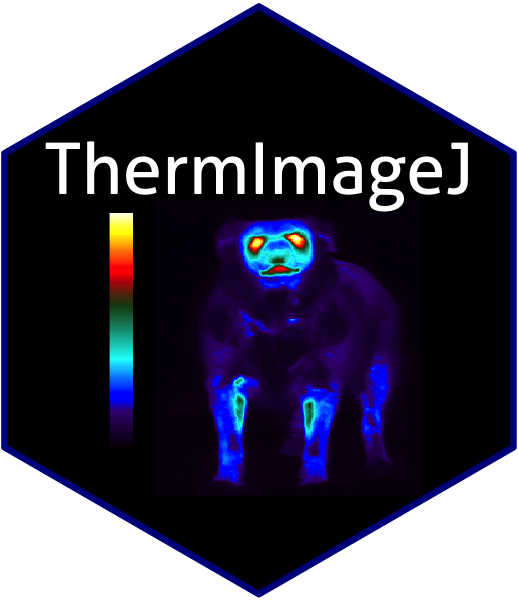
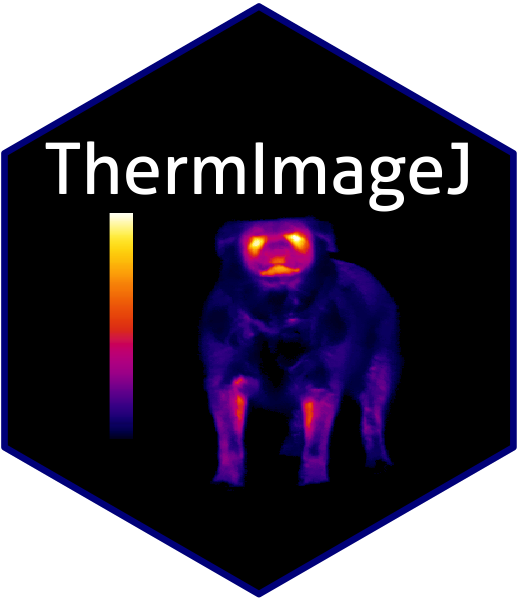
Update toolset to v1.4. includes fast raw2temp calc

Changed region(s): [[0.3707, 0.36, 0.7722, 0.81], [0.1853, 0.36, 0.278, 0.72]]

diff --git a/Readme.md b/Readme.md
@@ -1,7 +1,7 @@
 ThermImageJ - Thermal Image Functions and Macros for ImageJ
 ================
 
-<img src = './images/ThermImageJSticker1.png' align="right" height="138.5">
+<img src = './images/ThermImageJSticker1.png' align="right" height="165">
 
 ThermImageJ is a collection of ImageJ functions and macros to allow for import and conversion of thermal image files and to assist in extracting raw data from infrared thermal images and converting these to temperatures using standard equations in thermography.
 
@@ -216,7 +216,7 @@ Main Functions and Features
     -   see SampleFiles.zip for sample data
 -   Raw Import SEQ <img src='./images/ImportSEQ.png'>
     -   custom macro to import FLIR SEQ using the Import-Raw command
-    -   use only if you know the precise offset byte start and the number of bytes between frames (see Frame Start Byte Macro below).s
+    -   use only if you know the precise offset byte start and the number of bytes between frames (see Frame Start Byte Macro below).
     -   this only works for certain SEQ files (usually those captured to computer), and only formats where tiff format underlies the video.
     -   see SampleFiles.zip for sample data
 
@@ -226,6 +226,7 @@ Main Functions and Features
     -   This macro will scan a FLIR video file (SEQ) for the offset byte position '0200wwwwhhhh' where wwww and hhhh are the image width and height in 16-bit little endian hexadecimal.
     -   For example, the magicbyte for a 640x480 camera: 02008002e001", "8002" corresponds to 640 and "e001" corresponds to 480.
     -   The user can provide a custom magicbyte, but should leave this blank otherwise.
+    -   The function is only used in conjunction with the Raw Import FLIR SEQ macro.
     -   The function returns best estimates for the offset and gap bytes necessary for use with the Raw Import FLIR SEQ macro, although is not guaranteed to be correct due to variances in SEQ file saving convention.
     -   Note: on unix based OS, this macro calls the **xxd** executable and runs quickly. For Windows OS, Powershell Core 6 needs to be installed with the updated **Format-Hex** function, and runs slowly.
 -   Image Byte swap <img src='./images/ByteSwap.png'>
